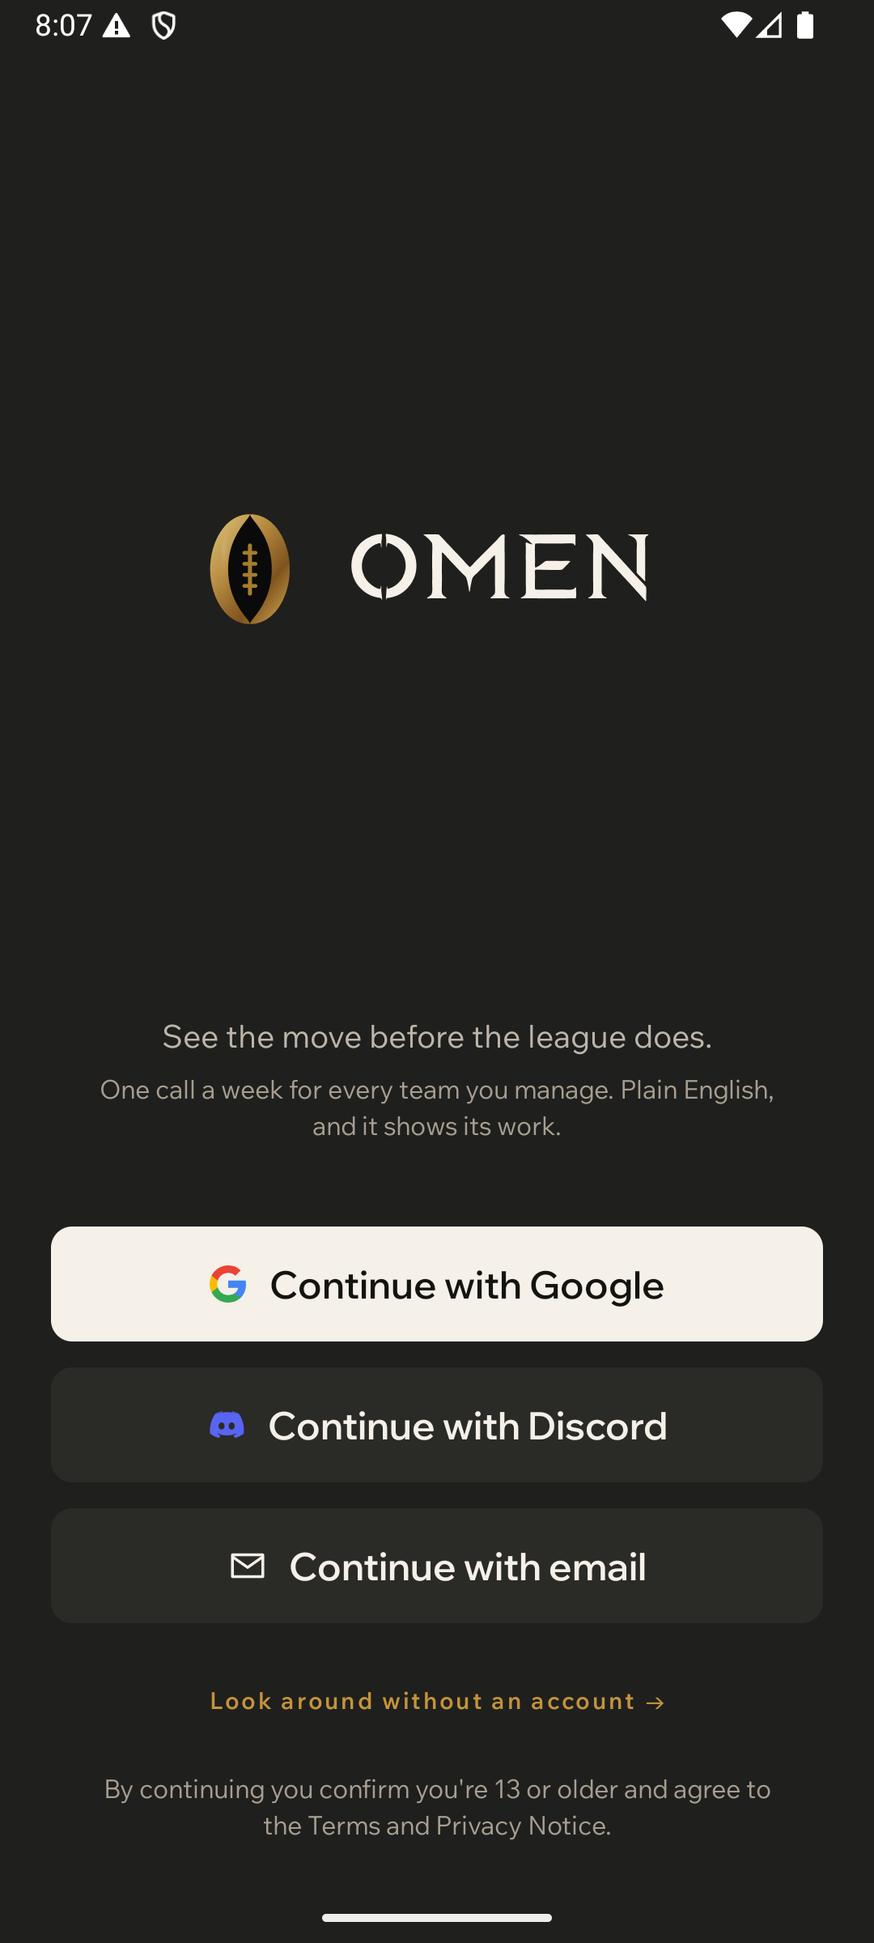
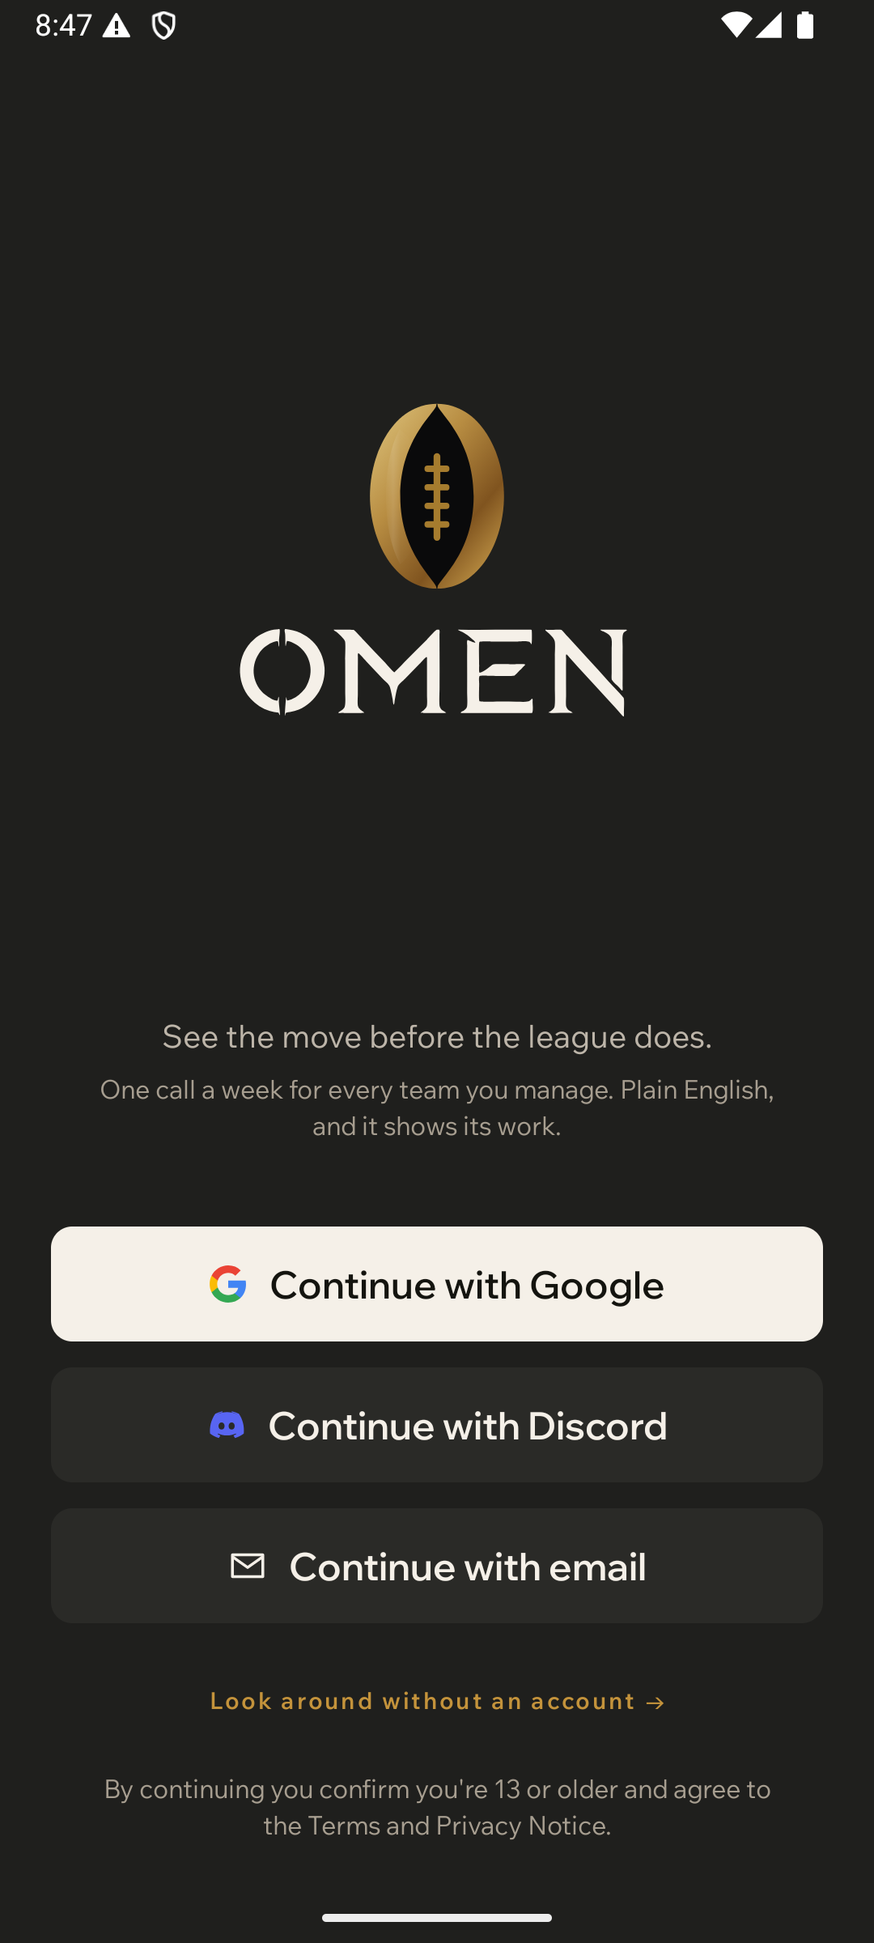
fix: close all three J1 gaps rather than shipping them as known issues
ConnectFailed is reachable. `ConnectFailure`'s two ESPN cases now carry an
`EspnDiagnostic` — status code, status text, league id, timestamp — populated
from the provider's real response where it is known (422 on connect, 400 on
validation, 401 on discovery). `errorSection` routes any ESPN failure carrying
one to the full report instead of a one-line error.

Every diagnostic field is optional and the evidence sentence is assembled from
what is present. No value is ever invented: a failure with no status does not
claim one, it says the provider refused the request. That was the whole reason
the screen could not be wired before, and faking a 401 to force it would have
been the exact false claim the screen exists to prevent. The id is a league id
and never a cookie — fact-of-record #6 is untouched by this type.

Android has all six frames. `email-code` already had a scenario and only
needed capturing; ESPN consent gained one using the same auto-select seam as
iOS, which never fires for a real user because choosing a provider is their
decision.

The brass sheen is back on the Android lockup. The source is an elliptical
radial gradient and Android vector gradients are circular only, so it is a
horizontal linear gradient across the same path, symmetric about the ellipse's
centre line. That keeps the dominant axis — a vertical streak fading sideways
— and loses only the gentler vertical falloff, which is not visible at 0.18
[…]

Changed region(s): [[0.2444, 0.1875, 0.7639, 0.375], [0.0611, 0.0, 0.0917, 0.0312]]

diff --git a/Solutions/deliverables/native-runs/2026-09-18-j1-before/contact-sheet.html b/Solutions/deliverables/native-runs/2026-09-18-j1-before/contact-sheet.html
@@ -34,11 +34,12 @@ field already normalizes and takes the first six digits, so a pasted code fills 
 </div>
 
 <h2>Android — the same journey</h2>
-<p class="note">Same strings, same order. Two frames are not yet captured on Android and are listed
-under gaps rather than quietly omitted.</p>
+<p class="note">Same strings, same order, all six frames.</p>
 <div class="row">
-  <figure><img src="after/android/dark/onboarding.sign-in.png"><figcaption><b>1 · Sign in</b>Labelled rows, and the stacked lockup as a converted vector — no baked plate.</figcaption></figure>
+  <figure><img src="after/android/dark/onboarding.sign-in.png"><figcaption><b>1 · Sign in</b>Labelled rows, and the stacked lockup as a converted vector — ball above the wordmark, brass sheen, no baked plate.</figcaption></figure>
+  <figure><img src="after/android/dark/onboarding.email-code.png"><figcaption><b>2 · Email code</b>Six boxes, paste fills all of them.</figcaption></figure>
   <figure><img src="after/android/dark/onboarding.connect-league.png"><figcaption><b>3 · Connect a league</b>Matches iOS. Fixed an Android-only defect: ESPN's row used to read "Just your username — no password".</figcaption></figure>
+  <figure><img src="after/android/dark/journey-j1.nominal.04-espn-consent.png"><figcaption><b>4 · ESPN consent</b>Names the two cookies, same as iOS.</figcaption></figure>
   <figure class="gap"><img src="after/android/dark/journey-j1.degraded.05-connect-failed.png"><figcaption><b>5 · That did not work <span class="flag">— degraded pass</span></b>Ported with the same structure and strings.</figcaption></figure>
   <figure><img src="after/android/dark/journey-j1.nominal.06-command-no-league.png"><figcaption><b>6 · Nothing to read</b>In the tab shell, with window insets.</figcaption></figure>
 </div>
@@ -50,16 +51,23 @@ control exists, is hittable and clears 44pt, and that a real tap leaves the app 
 tests found two false alarms in their own first draft and one CGFloat rounding artifact; none was
 a product defect, and all three are recorded in the test file.</p>
 
-<h2>Open, and not papered over</h2>
+<h2>All three gaps closed, 2026-09-19</h2>
 <p class="note">
-<b>1. <code>OmenConnectFailedScreen</code> is still unreachable in production.</b> It cannot be
-wired honestly: <code>ConnectFailure</code> is a plain enum with no payload, so there is no status
-code, league id or timestamp to show, and inventing a 401 would be exactly the false claim the
-screen exists to prevent. It needs those fields on the failure model first.
+<b>1. <code>OmenConnectFailedScreen</code> is reachable.</b> <code>ConnectFailure</code>'s two ESPN
+cases now carry an <code>EspnDiagnostic</code> — status code, status text, league id, timestamp —
+populated from the provider's real response at the point it is known (422, 400, 401). The connect
+flow routes any ESPN failure carrying one to the full report instead of a one-line error. Every
+field is optional and the sentence is assembled from what is present: <b>no value is ever
+invented</b>, so a failure with no status simply does not claim one. The id is a league id and
+never a cookie — fact-of-record #6 is untouched.
 <br><br>
-<b>2. Android is missing the EmailCode and ESPN-consent captures.</b> Both screens exist; the
-scenarios do not.
+<b>2. Android has all six frames.</b> <code>email-code</code> already had a scenario and just
+needed capturing; ESPN consent gained one, using the same auto-select seam as iOS. It never
+auto-selects for a real user — choosing a provider is their decision.
 <br><br>
-<b>3. The brass sheen is absent from the Android lockup</b> — an elliptical radial gradient Android
-vector drawables cannot express. Documented in the drawable.
+<b>3. The brass sheen is back.</b> The source is an elliptical radial gradient, which Android
+vector drawables cannot express, so it is a horizontal linear gradient across the same path,
+symmetric about the ellipse's centre line. That reproduces the dominant axis — a vertical streak
+fading sideways — and drops only the gentler vertical falloff, which is invisible at 0.18 alpha.
+The approximation is documented in the drawable.
 </p>

diff --git a/mobile/ios/OmenIOS/OmenIOS/App/Connect/OmenConnectFailedScreen.swift b/mobile/ios/OmenIOS/OmenIOS/App/Connect/OmenConnectFailedScreen.swift
@@ -24,10 +24,13 @@ struct OmenConnectFailedScreen: View {
         let provider: String
         /// The provider's own status code. Shown because "it didn't work" is not a report anyone
         /// can act on, and support cannot triage without it.
-        let statusCode: Int
-        let statusText: String
-        let leagueID: String
-        let observedAt: String
+        /// Every field is optional and the evidence line is assembled from whatever is present.
+        /// **A value is never invented** — if ESPN gave no status, the sentence simply does not
+        /// claim one. A fabricated 401 would be the exact false claim this screen exists to avoid.
+        let statusCode: Int?
+        let statusText: String?
+        let leagueID: String?
+        let observedAt: String?
         /// Named providers that are still live. Absent when there are none — the reassurance is
         /// only offered when it is true.
         let unaffected: [String]
@@ -79,7 +82,7 @@ struct OmenConnectFailedScreen: View {
     /// The facts, in the provider's own terms. This is the half that makes the screen a report.
     private var evidence: some View {
         OmenCard(contentPadding: OmenSpacing.step12) {
-            Text("\(diagnosis.provider) returned \(diagnosis.statusCode) \(diagnosis.statusText) for league \(diagnosis.leagueID) at \(diagnosis.observedAt). The cookies are there and \(diagnosis.provider) is refusing them.")
+            Text(evidenceSentence)
                 .omenTextStyle(OmenTypography.bodySmall)
                 .foregroundStyle(OmenColor.textSecondary)
                 .frame(maxWidth: .infinity, alignment: .leading)
@@ -99,6 +102,23 @@ struct OmenConnectFailedScreen: View {
                     .frame(maxWidth: .infinity, alignment: .leading)
             }
         }
+    }
+
+    /// Built from the fields that are present. The closing clause is always true and is what the
+    /// screen is really telling the user: the stored values exist and the provider is rejecting
+    /// them, which is why signing in again is the fix.
+    private var evidenceSentence: String {
+        var parts: [String] = []
+        if let code = diagnosis.statusCode {
+            let text = diagnosis.statusText.map { " \($0)" } ?? ""
+            parts.append("\(diagnosis.provider) returned \(code)\(text)")
+        } else {
+            parts.append("\(diagnosis.provider) refused the request")
+        }
+        if let league = diagnosis.leagueID { parts.append("for league \(league)") }
+        if let at = diagnosis.observedAt { parts.append("at \(at)") }
+        return parts.joined(separator: " ")
+            + ". The cookies are there and \(diagnosis.provider) is refusing them."
     }
 
     /// Ordered, because the order matters — reconnecting before signing in again just re-reads

diff --git a/mobile/android/app/src/main/kotlin/com/slopssaloon/omen/app/screenshot/ScreenshotScenarios.kt b/mobile/android/app/src/main/kotlin/com/slopssaloon/omen/app/screenshot/ScreenshotScenarios.kt
@@ -44,6 +44,7 @@ import com.slopssaloon.omen.app.feature.commandcenter.OmenLeagueScreen
 import com.slopssaloon.omen.app.feature.commandcenter.OmenTradeScreen
 import com.slopssaloon.omen.app.feature.connect.ConnectException
 import com.slopssaloon.omen.app.feature.connect.ConnectFailure
+import com.slopssaloon.omen.app.feature.connect.ConnectProvider
 import com.slopssaloon.omen.app.feature.connect.ConnectRepository
 import com.slopssaloon.omen.app.feature.connect.FollowedLeague
 import com.slopssaloon.omen.app.feature.connect.ConnectScreen
@@ -145,6 +146,10 @@ object ScreenshotScenarios {
         // optional edge case covered by a nominal-only screenshot.
         // J1 "Getting in". The journey has no capability profile, so per screen-journeys-v1 the
         // provider failure path is its degraded pass — and it is the only confirmed beta failure.
+        "journey-j1.nominal.04-espn-consent" to ScreenshotScenario(
+            label = "J1 4/6 — ESPN consent, before the sheet opens",
+            render = { OnboardingConnectBody(autoSelectProvider = ConnectProvider.Espn) },
+        ),
         "journey-j1.degraded.05-connect-failed" to ScreenshotScenario(
             label = "J1 degraded 5/6 — ESPN refused a stale session",
             render = {
@@ -513,10 +518,9 @@ private fun OnboardingAuthBody(state: AuthFlowState) {
 }
 
 @Composable
-private fun OnboardingConnectBody() {
+private fun OnboardingConnectBody(autoSelectProvider: ConnectProvider? = null) {
     OmenTheme {
-        ConnectScreen(
-            viewModel = remember {
+        val vm = remember {
                 ConnectViewModel(
                     repository = ScreenshotConnectRepository(),
                     sessionManager = SessionManager(
@@ -532,7 +536,16 @@ private fun OnboardingConnectBody() {
                     ),
                     authSession = StubProviderAuthSession(ProviderAuthOutcome.Canceled),
                 )
-            },
+        }
+        // Drives the flow to a provider's first step so a journey capture can reach a state
+        // that otherwise needs a tap. Null in every other scenario — this never auto-selects for
+        // a real user, because choosing a provider is their decision. iOS mirror:
+        // `ConnectView(autoSelectProvider:)`.
+        LaunchedEffect(autoSelectProvider) {
+            if (autoSelectProvider != null) vm.selectProvider(autoSelectProvider)
+        }
+        ConnectScreen(
+            viewModel = vm,
             onConnected = {},
             onDismiss = {},
         )

diff --git a/mobile/ios/OmenIOS/OmenIOS/App/Connect/ConnectRepository.swift b/mobile/ios/OmenIOS/OmenIOS/App/Connect/ConnectRepository.swift
@@ -254,10 +254,20 @@ struct ApiConnectRepository: ConnectRepository {
             // so they are not collapsed. The bodies are deliberately not decoded: the route's
             // error payload can quote back the field it rejected.
             if case .server(let status) = error {
-                if status == 422 { return .failure(.espnSessionUnreadable) }
-                if status == 400 { return .failure(.espnLeagueUnreachable) }
+                // The provider's own numbers, carried through so `ConnectFailed` can report
+                // them rather than inventing them.
+                if status == 422 {
+                    return .failure(.espnSessionUnreadable(
+                        EspnDiagnostic(statusCode: status, statusText: "Unprocessable", leagueID: capture.leagueId)
+                    ))
+                }
+                if status == 400 {
+                    return .failure(.espnLeagueUnreachable(
+                        EspnDiagnostic(statusCode: status, statusText: "Bad Request", leagueID: capture.leagueId)
+                    ))
+                }
             }
-            return .failure(Self.map(error, notFoundMeans: .espnLeagueUnreachable))
+            return .failure(Self.map(error, notFoundMeans: .espnLeagueUnreachable(EspnDiagnostic(statusCode: nil, statusText: nil, leagueID: capture.leagueId))))
         }
     }
 
@@ -280,8 +290,16 @@ struct ApiConnectRepository: ConnectRepository {
             // 401 here is ESPN rejecting the session, not the Omen session — the route
             // distinguishes them, and conflating the two would sign the user out of Omen over
             // an expired ESPN cookie.
-            if case .unauthorized = error { return .failure(.espnSessionUnreadable) }
-            if case .server(let status) = error, status == 422 { return .failure(.espnSessionUnreadable) }
+            if case .unauthorized = error {
+                return .failure(.espnSessionUnreadable(
+                    EspnDiagnostic(statusCode: 401, statusText: "Unauthorized")
+                ))
+            }
+            if case .server(let status) = error, status == 422 {
+                return .failure(.espnSessionUnreadable(
+                    EspnDiagnostic(statusCode: status, statusText: "Unprocessable")
+                ))
+            }
             return .failure(Self.map(error, notFoundMeans: .server))
         }
     }

diff --git a/mobile/ios/OmenIOS/OmenIOS/App/Connect/ConnectFlow.swift b/mobile/ios/OmenIOS/OmenIOS/App/Connect/ConnectFlow.swift
@@ -114,6 +114,30 @@ enum ConnectState: Equatable {
 /// Why a connection attempt stopped, in terms the user can act on. Never carries a raw
 /// provider error, identifier, or credential — spec §7: "raw provider/cookie details never
 /// enter client copy."
+/// What the provider actually said, when it said anything.
+///
+/// `ConnectFailed.dc.html` shows the status code, the league and the time, because "it didn't
+/// work" is not a report a user can act on and support cannot triage without them. Carrying them
+/// on the failure is what makes that screen reachable honestly — before this, the screen existed
+/// and nothing could populate it, so nothing could route to it.
+///
+/// Every field is optional and the screen degrades field by field. **A value is never invented**:
+/// if ESPN gave no status, none is shown. `leagueID` is a league id, never a cookie value —
+/// fact-of-record #6 is unaffected by this type and no cookie may ever enter it.
+struct EspnDiagnostic: Equatable {
+    let statusCode: Int?
+    let statusText: String?
+    let leagueID: String?
+    let observedAt: Date
+
+    init(statusCode: Int?, statusText: String?, leagueID: String? = nil, observedAt: Date = Date()) {
+        self.statusCode = statusCode
+        self.statusText = statusText
+        self.leagueID = leagueID
+        self.observedAt = observedAt
+    }
+}
+
 enum ConnectFailure: Error, Equatable {
     case usernameNotFound
     case noLeaguesForSeason
@@ -130,9 +154,18 @@ enum ConnectFailure: Error, Equatable {
 
     /// Signed in, but the session was not where Omen could read it. Contract §W1-A's failure
     /// table names this one explicitly and forbids blaming the user for it.
-    case espnSessionUnreadable
+    case espnSessionUnreadable(EspnDiagnostic? = nil)
     /// The session read fine and ESPN refused the league — wrong league, or no access to it.
-    case espnLeagueUnreachable
+    case espnLeagueUnreachable(EspnDiagnostic? = nil)
+
+    /// The provider's own account of the failure, when there is one. Only the ESPN cases carry
+    /// it, because only they have a provider response behind them.
+    var espnDiagnostic: EspnDiagnostic? {
+        switch self {
+        case .espnSessionUnreadable(let d), .espnLeagueUnreachable(let d): return d
+        default: return nil
+        }
+    }
 
     var message: String {
         switch self {

diff --git a/mobile/ios/OmenIOS/OmenIOSTests/ConnectFlowTests.swift b/mobile/ios/OmenIOS/OmenIOSTests/ConnectFlowTests.swift
@@ -342,14 +342,14 @@ final class ConnectFlowTests: XCTestCase {
     /// path. Never a loop, and the copy never blames the user.
     func testAnUnreadableSessionRetriesOnceThenRoutesToTheDesktopPath() async {
         var repository = StubConnectRepository()
-        repository.espnConnectResult = .failure(.espnSessionUnreadable)
+        repository.espnConnectResult = .failure(.espnSessionUnreadable(nil))
         let viewModel = await espnReadyViewModel(repository: repository)
 
         await viewModel.confirmEspnConnection()
         guard case .retryableError(let first) = viewModel.state else {
             return XCTFail("first unreadable session should be retryable, got \(viewModel.state)")
         }
-        XCTAssertEqual(first, .espnSessionUnreadable)
+        XCTAssertEqual(first, .espnSessionUnreadable(nil))
         XCTAssertFalse(first.message.lowercased().contains("you didn't"), "must not blame the user")
 
         // Second attempt: same failure, and now it hands over to the desktop helper rather than
@@ -369,7 +369,7 @@ final class ConnectFlowTests: XCTestCase {
     /// its own sentence and its own next action.
     func testAnUnreachableLeagueIsNotReportedAsASessionProblem() async {
         var repository = StubConnectRepository()
-        repository.espnConnectResult = .failure(.espnLeagueUnreachable)
+        repository.espnConnectResult = .failure(.espnLeagueUnreachable(nil))
         let viewModel = await espnReadyViewModel(repository: repository)
 
         await viewModel.confirmEspnConnection()
@@ -377,8 +377,8 @@ final class ConnectFlowTests: XCTestCase {
         guard case .retryableError(let failure) = viewModel.state else {
             return XCTFail("expected retryableError, got \(viewModel.state)")
         }
-        XCTAssertEqual(failure, .espnLeagueUnreachable)
-        XCTAssertNotEqual(failure.message, ConnectFailure.espnSessionUnreadable.message)
+        XCTAssertEqual(failure, .espnLeagueUnreachable(nil))
+        XCTAssertNotEqual(failure.message, ConnectFailure.espnSessionUnreadable(nil).message)
     }
 
     /// **Regression: a successful discovery used to cancel itself.** The sheet is bound to

diff --git a/mobile/ios/OmenIOS/OmenIOS/App/Connect/ConnectView.swift b/mobile/ios/OmenIOS/OmenIOS/App/Connect/ConnectView.swift
@@ -364,7 +364,42 @@ struct ConnectView: View {
         }
     }
 
+    @ViewBuilder
     private func errorSection(_ failure: ConnectFailure) -> some View {
+        // An ESPN failure with a provider response behind it gets the full report rather than a
+        // one-line error. That screen was built to `ConnectFailed.dc.html` and, until the failure
+        // model carried these fields, nothing could populate it — so nothing routed to it and it
+        // existed only in a screenshot. A stale session is the failure users actually hit, it is
+        // not their fault, and the fix is an ordered procedure a sentence cannot carry.
+        if let diagnostic = failure.espnDiagnostic {
+            OmenConnectFailedScreen(
+                diagnosis: .init(
+                    provider: "ESPN",
+                    statusCode: diagnostic.statusCode,
+                    statusText: diagnostic.statusText,
+                    leagueID: diagnostic.leagueID,
+                    observedAt: Self.observedAtFormatter.string(from: diagnostic.observedAt),
+                    // Named only when true. The other providers' state is not known here, so
+                    // nothing is claimed about them.
+                    unaffected: []
+                ),
+                onReconnect: { viewModel.selectProvider(.espn) },
+                onSendToSupport: onDismiss
+            )
+        } else {
+            plainErrorSection(failure)
+        }
+    }
+
+    /// Wall-clock, because the user is being asked to compare it against when they last signed in.
+    private static let observedAtFormatter: DateFormatter = {
+        let f = DateFormatter()
+        f.timeStyle = .short
+        f.dateStyle = .none
+        return f
+    }()
+
+    private func plainErrorSection(_ failure: ConnectFailure) -> some View {
         VStack(alignment: .leading, spacing: OmenSpacing.step16) {
             OmenStateSurface(kind: .error, title: "That didn't work", message: failure.message)
             // Spec §6: every non-success state has a safe next action. A Yahoo round trip that

diff --git a/mobile/ios/OmenIOS/OmenIOS/App/Connect/ConnectViewModel.swift b/mobile/ios/OmenIOS/OmenIOS/App/Connect/ConnectViewModel.swift
@@ -338,7 +338,8 @@ final class ConnectViewModel: ObservableObject {
         var session = espnSession
         if session == nil { session = await cookieStore.takeSession() }
         guard let session else {
-            return failEspnSignIn(with: .espnSessionUnreadable)
+            // No provider round trip happened, so there is no diagnostic to carry.
+            return failEspnSignIn(with: .espnSessionUnreadable(nil))
         }
 
         let capture = EspnCapture(
@@ -377,7 +378,7 @@ final class ConnectViewModel: ObservableObject {
     private func failEspnSignIn(with failure: ConnectFailure) {
         clearEspnSession()
 
-        if failure == .espnSessionUnreadable {
+        if case .espnSessionUnreadable = failure {
             espnUnreadableRetries += 1
             if espnUnreadableRetries > 1 {
                 espnCheckNotice = EspnHandoffCopy.signInFellBack

diff --git a/mobile/ios/OmenIOS/OmenIOS/App/Screenshot/ScreenshotScenarios.swift b/mobile/ios/OmenIOS/OmenIOS/App/Screenshot/ScreenshotScenarios.swift
@@ -516,7 +516,7 @@ private struct ScreenshotConnectRepository: ConnectRepository {
     /// fails rather than succeeding: a fixture that reported a successful ESPN connect would put
     /// a fake connected state into store screenshots.
     func connectEspn(_ capture: EspnCapture, accessToken: String) async -> Result<Void, ConnectFailure> {
-        .failure(.espnSessionUnreadable)
+        .failure(.espnSessionUnreadable(nil))
     }
 
     /// Empty for the same reason `connectEspn` fails: screenshot mode signs in to nothing, and a

diff --git a/Direction/current_sprint.md b/Direction/current_sprint.md
@@ -635,7 +635,9 @@ own comment says is **a design-steward decision, not a build fix**, and therefor
 
 ### BE-ConnectFailureDiagnostics — Carry the diagnostic fields on a connect failure
 
-- **Status:** READY
+- **Status:** VERIFIED — done 2026-09-19, same session it was filed.
+- **Evidence:** `EspnDiagnostic` on `ConnectFailure`'s two ESPN cases, populated from the real 422/400/401 responses in `ConnectRepository`; `errorSection` routes any ESPN failure carrying one to `OmenConnectFailedScreen`. iOS 484 unit + 29 UI tests, 0 failures. Frames in `Solutions/deliverables/native-runs/2026-09-18-j1-before/`.
+- **Superseded status:** READY
 - **Blocked by:** None.
 - **Priority:** P1
 - **Cost:** small
